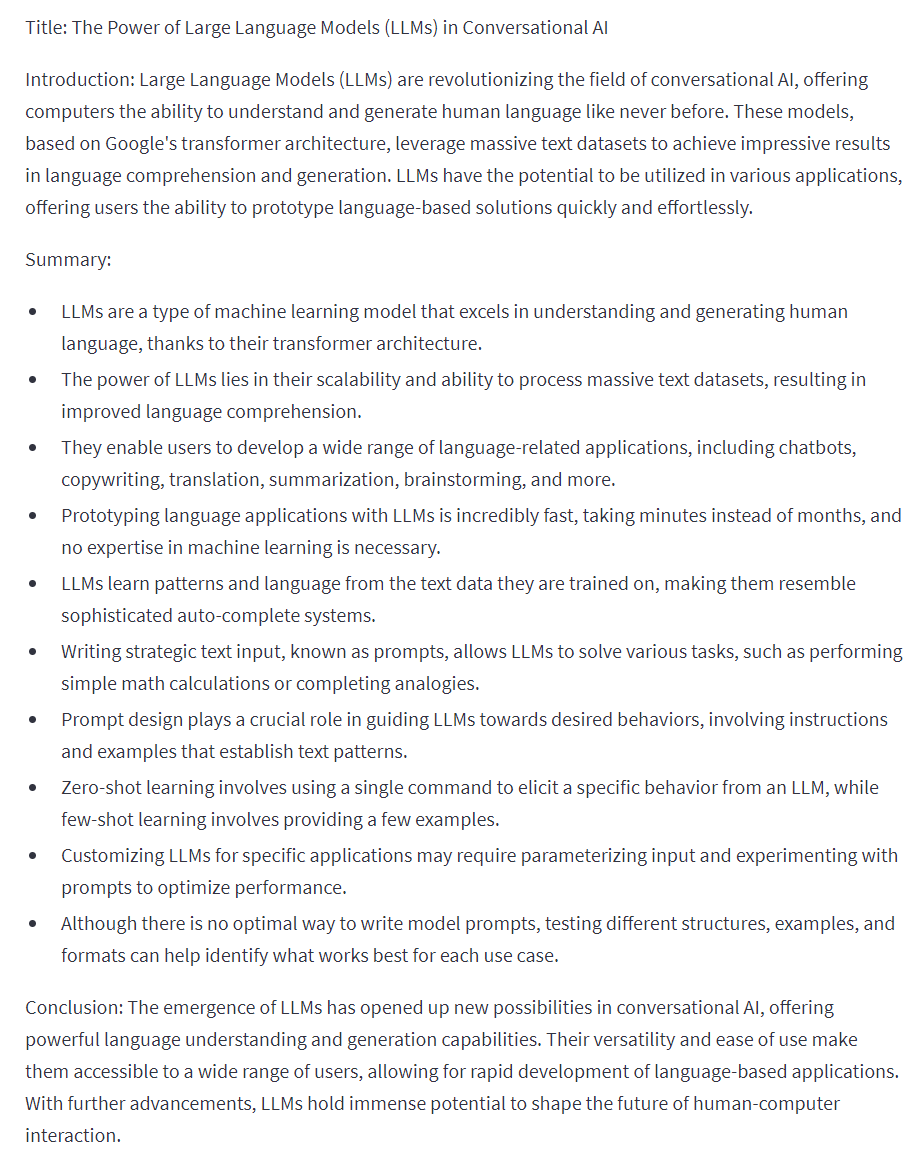
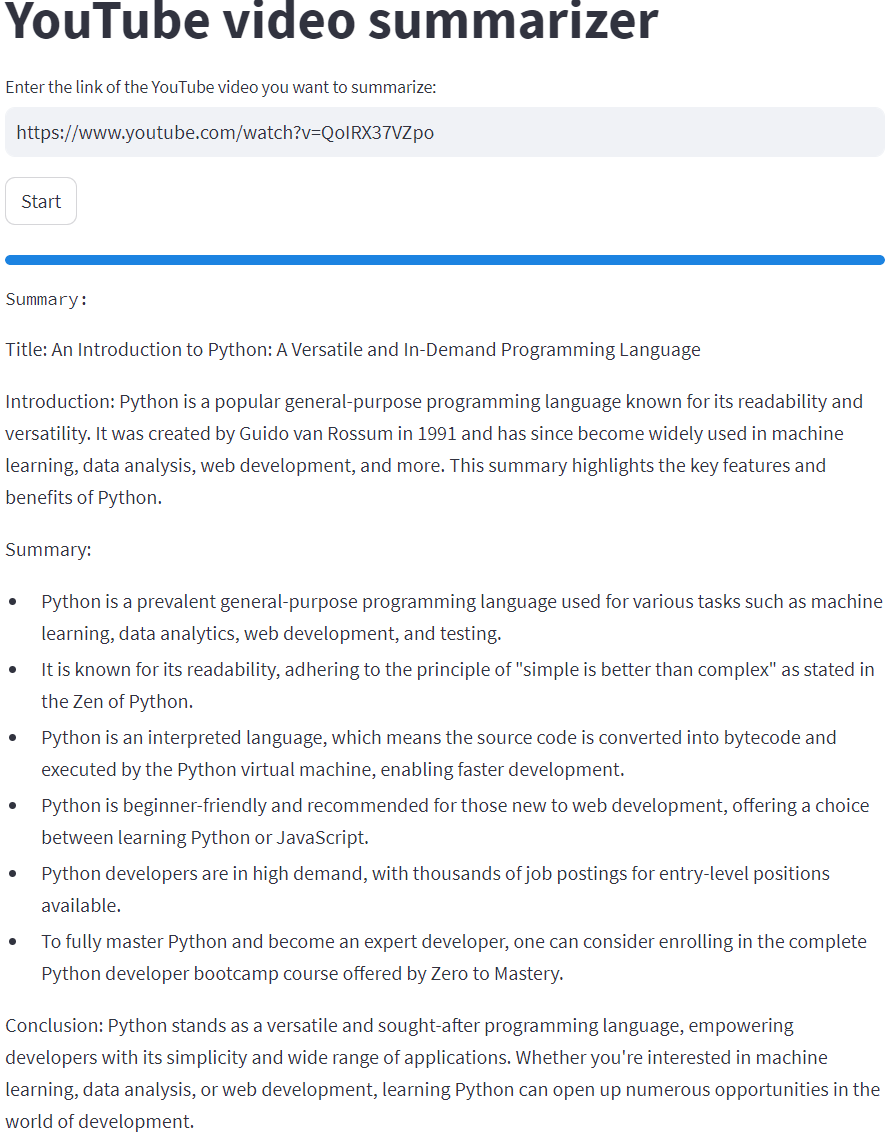
Upgrade 2.0: Integrated Langchain to reduce costs and increase summarization speed significantly

Changed region(s): [[0.0, 0.2155, 0.9966, 1.0], [0.0, 0.0616, 0.9664, 0.1847], [0.0, 0.0, 0.7248, 0.0308]]

diff --git a/youtube_summarize.py b/youtube_summarize.py
@@ -1,135 +1,89 @@
 import os
-import streamlit as st
-from pytube import YouTube
-import re
 import openai
-
+import streamlit as st
+from youtube_transcript_api import YouTubeTranscriptApi
+from langchain.text_splitter import RecursiveCharacterTextSplitter
 from dotenv import load_dotenv, find_dotenv
+
 # Specify the path to your .env file
-env_path = '/home/rico003/d.env/openai_api' # Change the Path
+env_path = '/home/USER/.env/openai_api' # Change the Path
 # Load the OpenAI API key from the .env file
 load_dotenv(env_path)
 openai.api_key = os.getenv('OPENAI_API_KEY')
 
-def youtube_audio_downloader(link):
+def get_transcript(youtube_url):
+    video_id = youtube_url.split("v=")[-1]
+    transcript_list = YouTubeTranscriptApi.list_transcripts(video_id)
 
-    yt = YouTube(link)
-    video_length_seconds = yt.length  # Get video length in seconds
+    # Try fetching the manual transcript
+    try:
+        transcript = transcript_list.find_manually_created_transcript()
+        language_code = transcript.language_code  # Save the detected language
+    except:
+        # If no manual transcript is found, try fetching an auto-generated transcript in a supported language
+        try:
+            generated_transcripts = [trans for trans in transcript_list if trans.is_generated]
+            transcript = generated_transcripts[0]
+            language_code = transcript.language_code  # Save the detected language
+        except:
+            # If no auto-generated transcript is found, raise an exception
+            raise Exception("No suitable transcript found.")
 
-    # Check for valid youtube link
-    if 'youtube.com' not in link and 'youtu.be' not in link:
-        st.error('Invalid Youtube link!')
-        return False
-    
-    # Downloading the Audio from the video
-    audio = yt.streams.filter(only_audio=True).first()
-    print('Downloading the Audiostream ...')
-    output_file = audio.download()
-    if os.path.exists(output_file):
-        print('Done!')
-    else:
-        print('Error Downloading the file!')
-        return False
-    
-    # rename into .mp3
-    basename = os.path.basename(output_file)
-    name, extension = os.path.splitext(basename)
-    audio_file = f'{name}.mp3'
+    full_transcript = " ".join([part['text'] for part in transcript.fetch()])
+    return full_transcript, language_code  # Return both the transcript and detected language
 
-    # replace spaces with underscore
-    audio_file =re.sub('\s+', '_', audio_file)
-    os.rename(basename, audio_file)
-    
-    return audio_file, video_length_seconds
 
-def transcribe(audio_file):
-    if not os.path.exists(audio_file):
-        print('Audio file does not exist!')
-        return False
+def summarize_with_langchain_and_openai(transcript, language_code, model_name='gpt-3.5-turbo'):
+    # Split the document if it's too long
+    text_splitter = RecursiveCharacterTextSplitter(chunk_size=2000, chunk_overlap=0)
+    texts = text_splitter.split_text(transcript)
+    text_to_summarize = " ".join(texts[:4]) # Adjust this as needed
 
-    with open(audio_file, 'rb') as f:
-        print('Starting transcribing ...', end='')
-        transcript = openai.Audio.transcribe('whisper-1', f)
-        print('Done!')
+    # Prepare the prompt for summarization
+    system_prompt = 'I want you to act as a Life Coach that can create good summaries!'
+    prompt = f'''Summarize the following text in {language_code}.
+    Text: {text_to_summarize}
 
-        name, extension = os.path.splitext(audio_file)
-        transcript_filename = f'transcript-{name}.txt'
-        with open(transcript_filename, 'w') as f:
-            f.write(transcript['text'])
+    Add a title to the summary in {language_code}. 
+    Include an INTRODUCTION, BULLET POINTS if possible, and a CONCLUSION in {language_code}.'''
 
-    return transcript_filename
-
-def summarize(transcript_filename, language, model_name):
-    if not os.path.exists(transcript_filename):
-        print('Transcript file does not exist!')
-        return False
-    with open (transcript_filename) as f:
-        transcript = f.read()
-
-    system_prompt = 'I want you to act as a Life Coach that can create good summarys!'
-    prompt = f'''Summarize the following text in {language}.
-    Text: {transcript}
-
-    Add a title to the summary in {language}. 
-    Include an INTRODUCTION, BULLET POINTS if possible, and a CONCLUSION in {language}.'''
-
-    print('Starting summarizing ...', end='')
+    # Start summarizing using OpenAI
     response = openai.ChatCompletion.create(
-        model=model_name, # use selected model
+        model=model_name,
         messages=[
             {'role': 'system', 'content': system_prompt},
             {'role': 'user', 'content': prompt}
         ],
-        # max_tokens=2048,
         temperature=1
     )
-
-    print('Done')
-    r = response['choices'][0]['message']['content']
-    return r
-
-def delete_files(*files):
-    for file in files:
-        if os.path.exists(file):
-            os.remove(file)
-            print(f'{file} deleted!')
-        else:
-            print(f'The file {file} does not exist')
-
+    
+    return response['choices'][0]['message']['content']
 
 def main():
     st.title('YouTube video summarizer')
-    
     link = st.text_input('Enter the link of the YouTube video you want to summarize:')
-    language = st.selectbox('Select the language of the summary:', ['german', 'english', 'france', 'spanish', 'albanian', 'polisch', 'italian', 'russian'])
 
     if st.button('Start'):
         if link:
             try:
-                st.info('Editing can take from 1 minute to 10 minutes, depending on the length of the video.')
-                # Initialize progress bar and status text
                 progress = st.progress(0)
                 status_text = st.empty()
 
-                status_text.text('Download and transcribe the video...')
-                progress.progress(25)  # Progress after downloading and transcribing
-                mp3_file, video_length_seconds = youtube_audio_downloader(link)
-                
-                # Choose model based on video length
-                model_name = 'gpt-3.5-turbo' if video_length_seconds <= 12 * 60 else 'gpt-3.5-turbo-16k'
-                transcript_filename = transcribe(mp3_file)
-                progress.progress(50)
+                status_text.text('Loading the transcript...')
+                progress.progress(25)
 
-                status_text.text('Create summary...')
-                progress.progress(75)  # Progress after summarizing
-                summary = summarize(transcript_filename, language, model_name)
-                
+                # Getting both the transcript and language_code
+                transcript, language_code = get_transcript(link)
+
+                status_text.text(f'Creating summary...')
+                progress.progress(75)
+
+                model_name = 'gpt-3.5-turbo'
+                summary = summarize_with_langchain_and_openai(transcript, language_code, model_name)
+
                 status_text.text('Summary:')
                 st.markdown(summary)
-                progress.progress(100)  # Progress after summary
-
-                # Delete the files after creating the summary
-                delete_files(mp3_file, transcript_filename)
+                progress.progress(100)
             except Exception as e:
                 st.write(str(e))
         else:

diff --git a/README.md b/README.md
@@ -1,12 +1,11 @@
 # YouTube Video Summarizer
 
-This is a Python application that allows you to summarize the content of a YouTube video using OpenAI's GPT-3.5 language model. The application downloads the audio from the provided YouTube link, transcribes it, and then generates a summary in the selected language.
+This is a Python application that allows you to summarize the content of a YouTube video using OpenAI's GPT-3.5 language model and Langchain. The application get the transcription provided by YouTube, chunks the Transcription with Langchain and generates a summary in the language of the youtube video.
 
 ## Features
-- Downloads audio from YouTube video link
-- Transcribes audio to text using OpenAI's transcription service
+- Get the Transcription from Youtube
+- Chunks the transcriptions with Langchain
 - Summarizes transcribed text using OpenAI's GPT-3.5 model
-- Deletes all temporary files after use to save space
 - Built with Streamlit for an easy-to-use web interface
 
 ## Prerequisites
@@ -18,6 +17,8 @@ Before you begin, ensure you have installed the following:
 - [PyTube](https://pytube.io/en/latest/)
 - [OpenAI](https://beta.openai.com/docs/developer-quickstart/)
 - [python-dotenv](https://pypi.org/project/python-dotenv/)
+- [youtube-transcript-api](https://pypi.org/project/youtube-transcript-api/)
+- [Langchain](https://pypi.org/project/langchain/)
 
 ## Installation 
 
@@ -49,34 +50,13 @@ streamlit run youtube_summarizer.py
 
 3. Enter the link of the YouTube video you want to summarize in the provided text input.
 
-4. Select the language in which you want the summary to be generated from the dropdown menu.
+4. Click the "Start" button to begin the summarization process.
 
-5. Click the "Start" button to begin the summarization process.
+   - The application will get the Transcription from Youtube
+   - It will then use GPT-3.5 and Langchain to generate a summary.
+   - The generated summary will be displayed on the web page in the language of the youtube video.
 
-   - The application will download the audio from the YouTube video and transcribe it.
-   - It will then use GPT-3.5 to generate a summary based on the transcribed text.
-   - The generated summary will be displayed on the web page.
-
-6. Note that the summarization process may take some time, depending on the length of the video and the GPT-3.5 model's response time.
-
-7. The summary will be presented in the form of an informative and factual overview of the video's content, including bullet points if possible. It will also include an introduction and conclusion phrase.
-
-## Supported Languages
-
-The application currently supports summarization in the following languages:
-
-- German
-- English
-- French
-- Spanish
-- Albanian
-- Polish
-- Italian
-- Russian
-
-## Cleaning Up
-
-After the summary is generated, the application will automatically delete the downloaded audio and transcribed text files. This is to ensure that no sensitive information is left on the system.
+5. The summary will be presented in the form of an informative and factual overview of the video's content, including bullet points if possible. It will also include an introduction and conclusion phrase.
 
 ## Example
 ### Insert Youtube link, choose the language and press start
